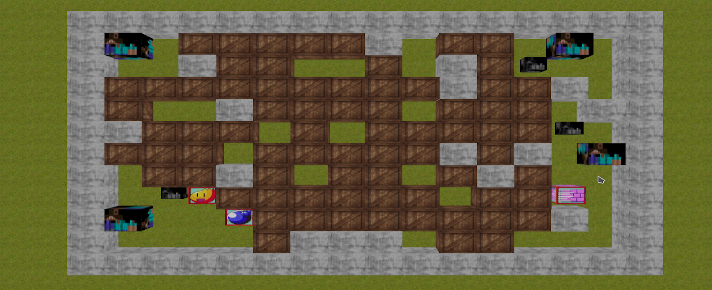
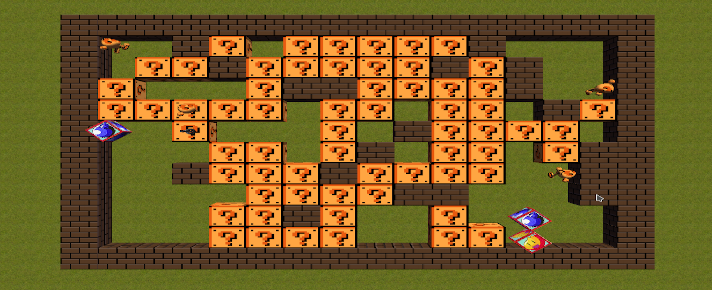
Add Map Preview

diff --git a/src/Bomberman/PreGame.cpp b/src/Bomberman/PreGame.cpp
@@ -78,6 +78,7 @@ PreGame::PreGame(std::vector<Field::PlayerMeta> &players) :
 	m_maps.addItem(L"Sky heaven", 4);
 	m_maps.addItem(L"Volcano", 5);
 	m_maps.setSelected(session.m_options.map);
+	setMap();
 
 	bind(session.events.gui.button_pressed, [this, &players](auto gui) {
 		session.playSound("res/sounds/ui_click2.ogg", session.m_options.vol);
@@ -117,15 +118,7 @@ PreGame::PreGame(std::vector<Field::PlayerMeta> &players) :
 
 	bind(session.events.gui.combo_modified, [&](auto gui) {
 		session.playSound("res/sounds/ui_click1.ogg", session.m_options.vol);
-		const std::vector<irr::io::path> urls = {
-		{"res/GUI/map1.png"},
-		{"res/GUI/map2.png"},
-		{"res/GUI/map3.png"},
-		{"res/GUI/map4.png"},
-		{"res/GUI/map5.png"},
-		{"res/GUI/map6.png"}
-		};
-		m_map_pre.setImage(session.driver.getTexture(urls.at(m_maps.getSelected())));
+		setMap();
 		session.m_options.map = m_maps.getSelected();
 	});
 
@@ -151,6 +144,19 @@ PreGame::PreGame(std::vector<Field::PlayerMeta> &players) :
 
 PreGame::~PreGame(void)
 {
+}
+
+void PreGame::setMap(void)
+{
+	const std::vector<irr::io::path> urls = {
+		{"res/GUI/map1.png"},
+		{"res/GUI/map2.png"},
+		{"res/GUI/map3.png"},
+		{"res/GUI/map4.png"},
+		{"res/GUI/map5.png"},
+		{"res/GUI/map6.png"}
+	};
+	m_map_pre.setImage(session.driver.getTexture(urls.at(m_maps.getSelected())));
 }
 
 void PreGame::setIcon(Button &button, size_t idx)

diff --git a/src/Bomberman/Menu.cpp b/src/Bomberman/Menu.cpp
@@ -37,7 +37,6 @@ Menu::Menu(void) :
 		if (m_opt == gui.Caller)
 			session.switch_Options = true;
 	});
-	m_play.setPressedImage(session.driver.getTexture("res/GUI/menu_background.png"));
 }
 
 Menu::~Menu(void)

diff --git a/src/Bomberman/PreGame.hpp b/src/Bomberman/PreGame.hpp
@@ -43,6 +43,7 @@ private:
 	Image &m_map_pre;
 	ComboBox &m_maps;
 private:
+	void setMap(void);
 	void setName(EditBox &box, const std::string& src);
 	void setIcon(Button &button, size_t idx);
 };
